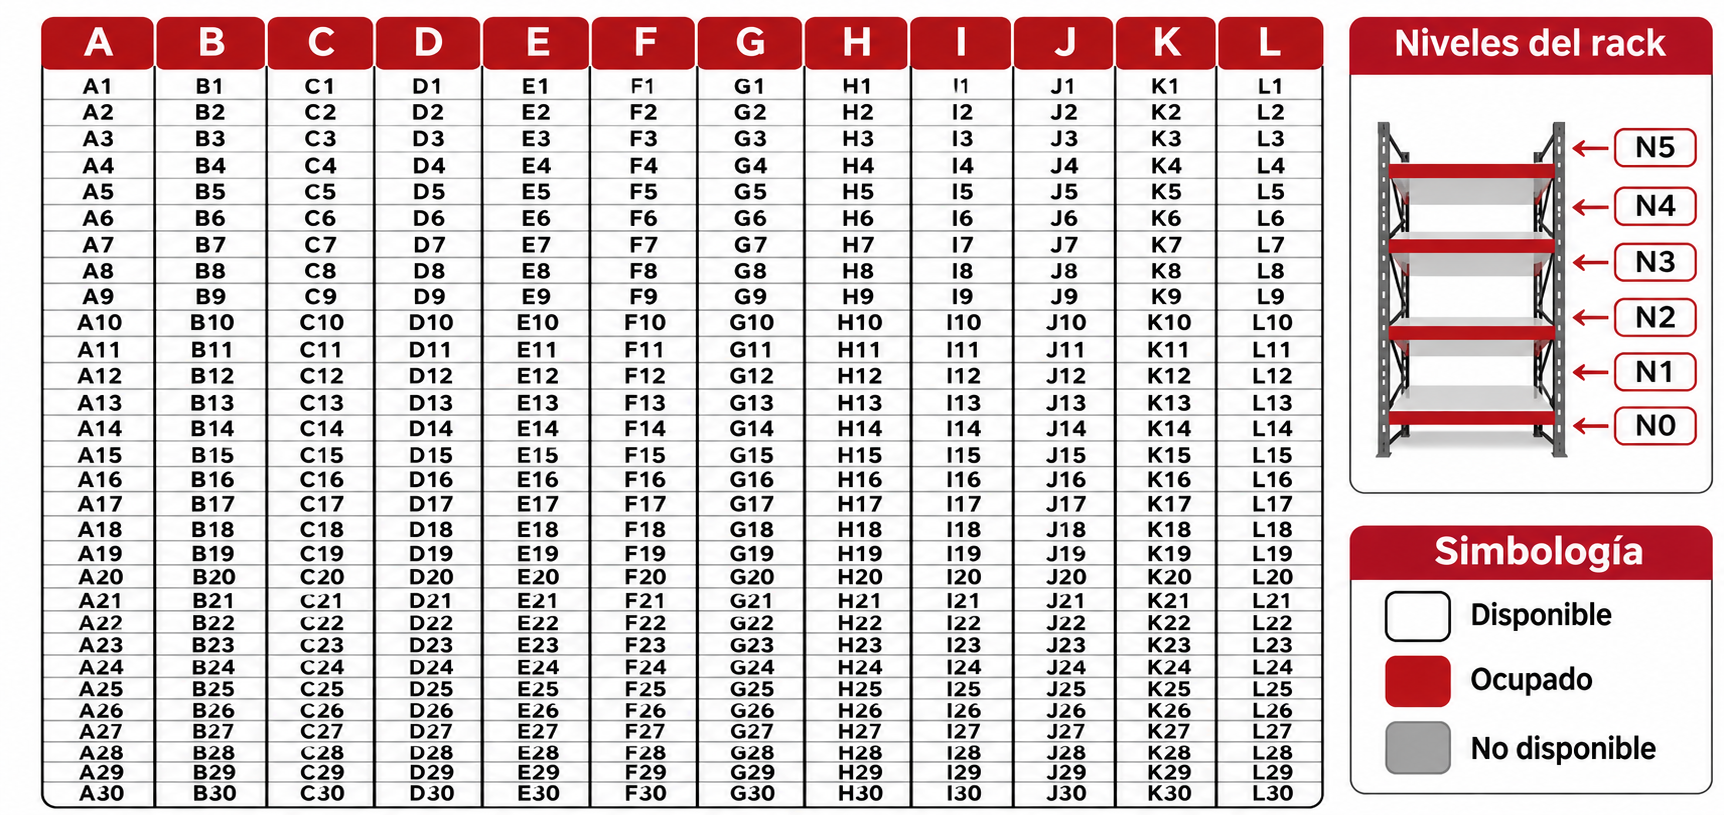
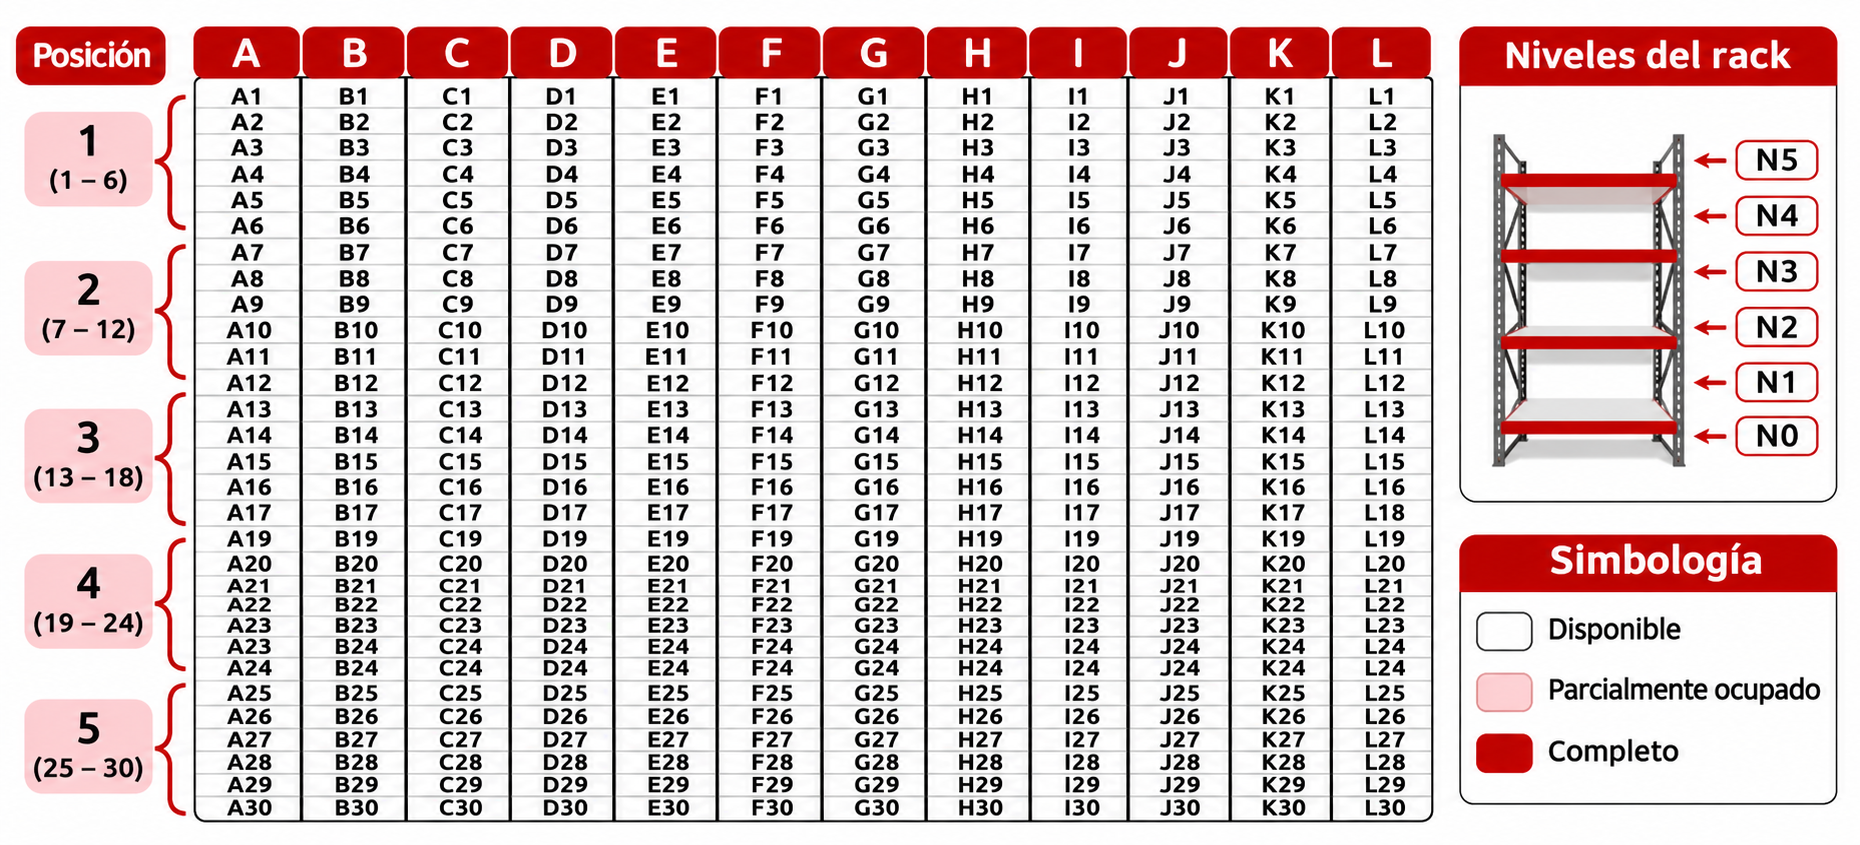
13

diff --git a/js/optimizacion.js b/js/optimizacion.js
@@ -4,7 +4,7 @@ import { ALTURA_MAXIMA_CATALOGO } from "./catalogo.js";
 // No depende de Firebase: lo usan la página y el script de carga.
 
 export const RACKS = "ABCDEFGHIJKL".split("");
-export const POSICIONES = 30;
+export const POSICIONES = 5;
 export const NIVELES = [0, 1, 2, 3, 4, 5];
 export const NIVELES_CHICA = [0, 1, 2, 3];
 export const NIVELES_GRANDE = [4, 5];
@@ -23,7 +23,7 @@ export function idUbicacion(rack, posicion, nivel) {
 }
 
 export function parsearUbicacion(texto) {
-  const m = /^([A-L])([1-9]|[12]\d|30)-N([0-5])$/.exec(texto || "");
+  const m = /^([A-L])([1-5])-N([0-5])$/.exec(texto || "");
   return m ? { rack: m[1], posicion: Number(m[2]), nivel: Number(m[3]) } : null;
 }
 
